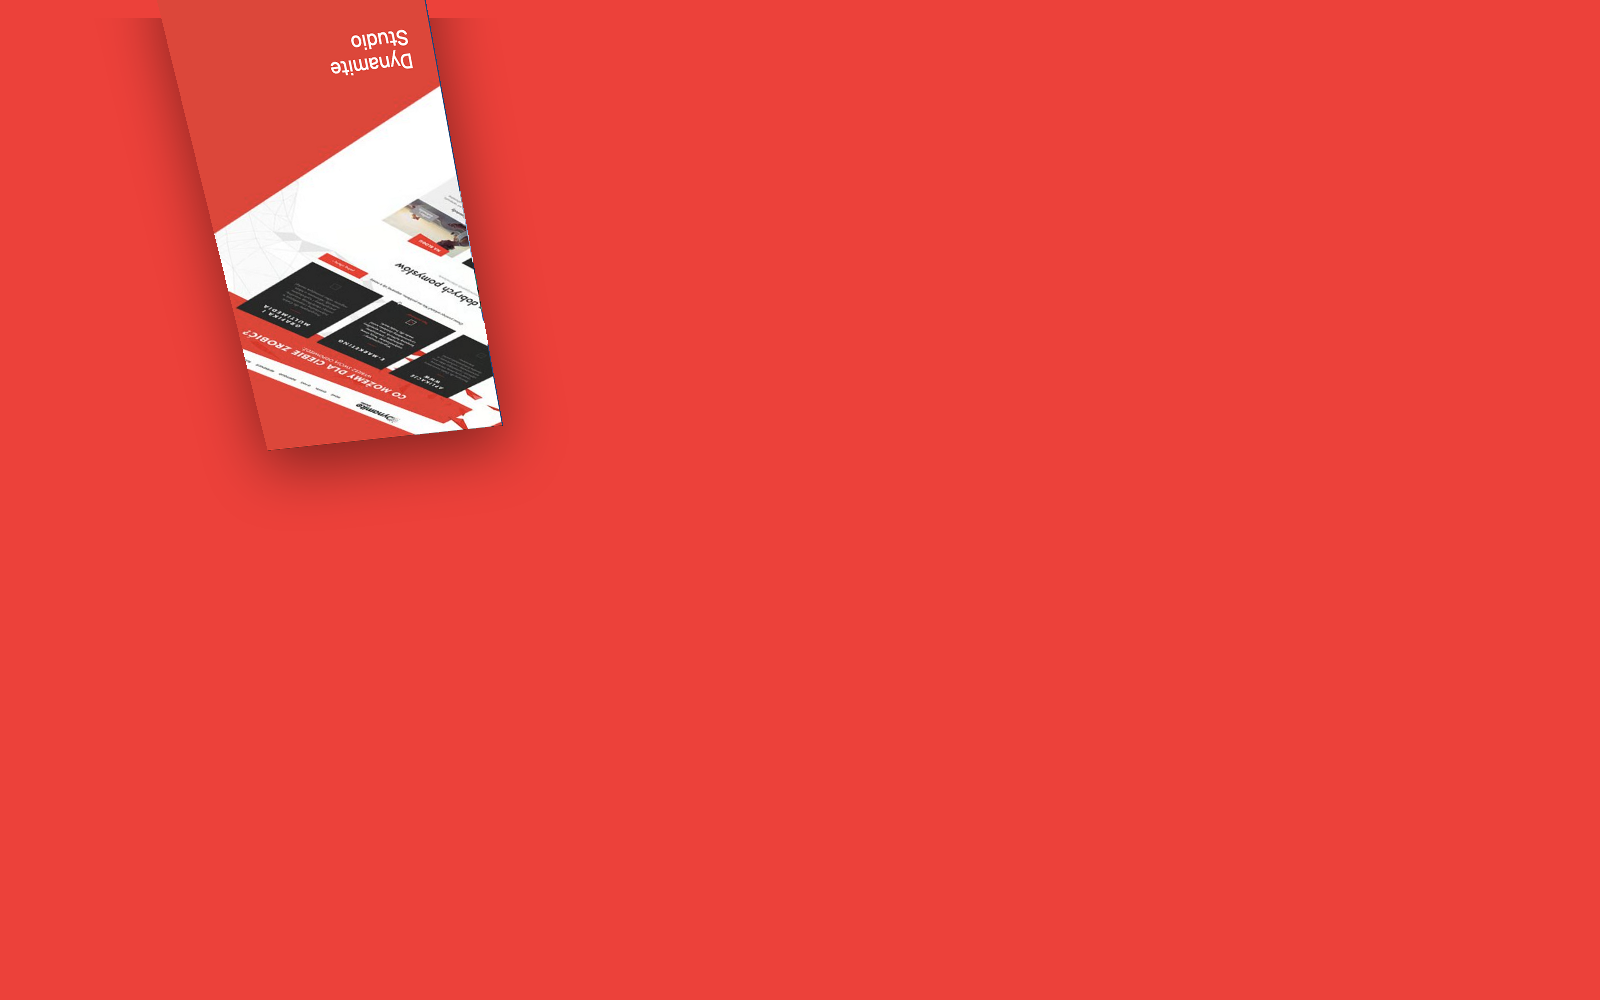
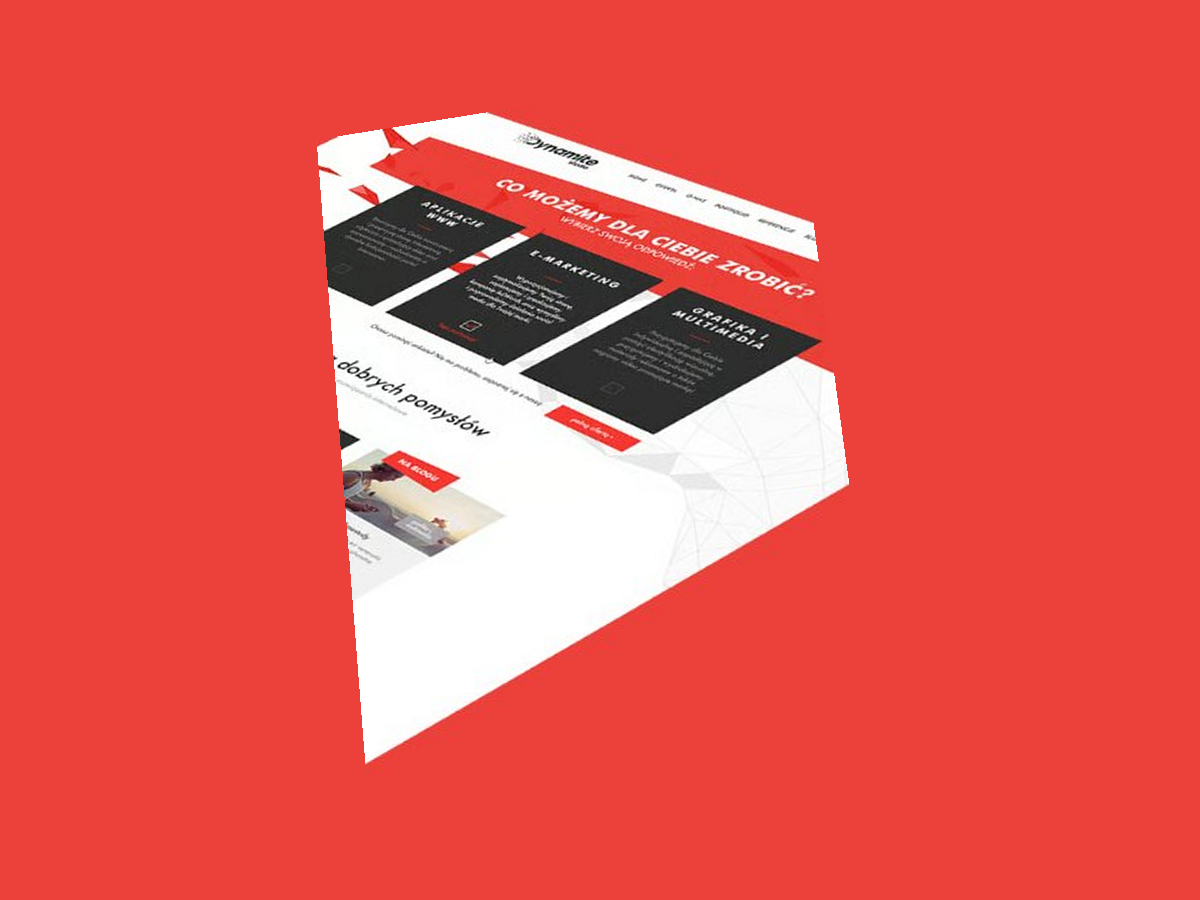
fix(skew_cover): scale mockup like reference card imagery
Correct perspective (no double canvas offset), fit quad to visual band,
tune angles to match portfolio reference; use flat screenshot input.

Changed region(s): [[0.0925, 0.0, 0.7092, 0.84]]

diff --git a/scripts/skew_cover.py b/scripts/skew_cover.py
@@ -1,16 +1,16 @@
 #!/usr/bin/env python3
 """
-Flat screenshot -> portfolio „skew” mockup (PNG on solid color + soft shadow).
+Flat screenshot -> portfolio „skew” mockup (PNG on solid project color).
 
-Projekcja zbliżona do CSS: perspective(...) rotateX(...) rotateZ(...), pinhole
-u = cx + f * x / z, v = cy + f * y / z (płaszczyzna tekstury z = 0, potem obrót
-i przesunięcie). Mapowanie PIL PERSPECTIVE (odwrotna homografia).
+Perspektywa zbliżona do kart referencyjnych (duży mockup, rotateX/Y/Z,
+wyśrodkowany, dół przy dolnej krawędzi pasma wizualnego). Wejście = płaski
+zrzut (bez wcześniejszego skew).
 
-Wymaga: Pillow, NumPy.
+Requires: Pillow, NumPy.
 
-Przykład:
-  python3 scripts/skew_cover.py content/images/Sysdyne-NewOrder.png \\
-    -o content/images/dynamite-skew.png --bg "#ec413a" --shadow
+Example:
+  python3 scripts/skew_cover.py content/images/dynamite.jpg \\
+    -o content/images/dynamite-skew.png --bg "#ec413a"
 """
 
 from __future__ import annotations
@@ -78,7 +78,6 @@ def translate(tx: float, ty: float, tz: float) -> NDArray[np.float64]:
 def homography_from_four_points(
     src: NDArray[np.float64], dst: NDArray[np.float64]
 ) -> NDArray[np.float64]:
-    """DLT: src, dst shape (4,2) -> 3x3 H with dst ~ H @ src_hom."""
     a_rows = []
     for i in range(4):
         x, y = src[i, 0], src[i, 1]
@@ -93,50 +92,7 @@ def homography_from_four_points(
     return h
 
 
-def project_corners(
-    sw: int,
-    sh: int,
-    cx: float,
-    cy: float,
-    focal: float,
-    rot_x_rad: float,
-    rot_y_rad: float,
-    rot_z_rad: float,
-    tz: float,
-) -> tuple[NDArray[np.float64], NDArray[np.float64]]:
-    """Cztery rogi tekstury (TL,TR,BR,BL) w pikselach wyjściowych."""
-    # CSS: perspective * rotateX * rotateZ * rotateY (na wektorze z lewej w CSS;
-    # tutaj składamy macierze tak, by P' = M @ P w kolumnach).
-    rw = rot_x(rot_x_rad) @ rot_z(rot_z_rad) @ rot_y(rot_y_rad)
-    t_model = translate(cx, cy, tz)
-    m = t_model @ rw @ translate(-sw / 2, -sh / 2, 0)
-
-    corners_local = np.array(
-        [
-            [0, 0, 0, 1],
-            [sw - 1, 0, 0, 1],
-            [sw - 1, sh - 1, 0, 1],
-            [0, sh - 1, 0, 1],
-        ],
-        dtype=np.float64,
-    )
-    out = np.zeros((4, 2), dtype=np.float64)
-    for i in range(4):
-        q = m @ corners_local[i]
-        x, y, z = float(q[0]), float(q[1]), float(q[2])
-        if abs(z) < 1e-6:
-            raise RuntimeError("Punkt na płaszczyźnie ogniskowej — zwiększ |translate-z|.")
-        out[i, 0] = cx + focal * x / z
-        out[i, 1] = cy + focal * y / z
-
-    src = np.array(
-        [[0, 0], [sw - 1, 0], [sw - 1, sh - 1], [0, sh - 1]], dtype=np.float64
-    )
-    return src, out
-
-
 def pil_perspective_coeffs(h_fwd: NDArray[np.float64]) -> tuple[float, ...]:
-    """PIL oczekuje współczynników odwrotnej homografii (wyjście -> wejście), h33 = 1."""
     h_inv = np.linalg.inv(h_fwd)
     h_inv = h_inv / h_inv[2, 2]
     return (
@@ -151,36 +107,117 @@ def pil_perspective_coeffs(h_fwd: NDArray[np.float64]) -> tuple[float, ...]:
     )
 
 
+def project_quad(
+    sw: int,
+    sh: int,
+    focal: float,
+    rot_x_rad: float,
+    rot_y_rad: float,
+    rot_z_rad: float,
+    tz: float,
+) -> NDArray[np.float64]:
+    """4 rogi w przestrzeni rzutu (bez przesunięcia do pikseli karty)."""
+    # Kamera w (0,0,0); płaszczyzna z=0, potem obrót, potem odsunięcie w Z.
+    rw = rot_x(rot_x_rad) @ rot_z(rot_z_rad) @ rot_y(rot_y_rad)
+    m = translate(0, 0, tz) @ rw @ translate(-sw / 2, -sh / 2, 0)
+
+    corners_local = np.array(
+        [
+            [0, 0, 0, 1],
+            [sw - 1, 0, 0, 1],
+            [sw - 1, sh - 1, 0, 1],
+            [0, sh - 1, 0, 1],
+        ],
+        dtype=np.float64,
+    )
+    out = np.zeros((4, 2), dtype=np.float64)
+    for i in range(4):
+        q = m @ corners_local[i]
+        x, y, z = float(q[0]), float(q[1]), float(q[2])
+        depth = -z
+        if depth < 1e-3:
+            raise RuntimeError(
+                "Płaszczyzna za blisko kamery — zwiększ --translate-z (bardziej ujemne)."
+            )
+        out[i, 0] = focal * x / depth
+        out[i, 1] = focal * y / depth
+    return out
+
+
+def fit_quad_to_canvas(
+    pts: NDArray[np.float64],
+    out_w: int,
+    out_h: int,
+    margin: float,
+    fill: float,
+    bottom_frac: float,
+) -> NDArray[np.float64]:
+    """Skala + wyrównanie: środek X, dół mockupu przy bottom_frac wysokości."""
+    minx, miny = pts.min(axis=0)
+    maxx, maxy = pts.max(axis=0)
+    w, h = maxx - minx, maxy - miny
+    if w < 1e-6 or h < 1e-6:
+        raise RuntimeError("Zdegenerowany czworokąt po projekcji — zmień kąty lub translate-z.")
+    cx_box = (minx + maxx) / 2
+    cy_box = (miny + maxy) / 2
+    centered = pts - np.array([cx_box, cy_box])
+
+    inner_w = out_w * (1 - 2 * margin)
+    inner_h = out_h * (1 - 2 * margin)
+    scale = min(inner_w * fill / w, inner_h * fill / h)
+    scaled = centered * scale
+
+    minx, miny = scaled.min(axis=0)
+    maxx, maxy = scaled.max(axis=0)
+    dx = out_w / 2 - (minx + maxx) / 2
+    dy = out_h * bottom_frac - maxy
+    return scaled + np.array([dx, dy])
+
+
+def trim_near_white(im: Image.Image, threshold: int = 250) -> Image.Image:
+    """Obetnij jednolite jasne marginesy (typowy zrzut na białym)."""
+    arr = np.asarray(im.convert("RGB"))
+    mask = np.any(arr < threshold, axis=2)
+    if not mask.any():
+        return im
+    ys, xs = np.where(mask)
+    pad = 2
+    left = max(0, int(xs.min()) - pad)
+    top = max(0, int(ys.min()) - pad)
+    right = min(im.width, int(xs.max()) + pad + 1)
+    bottom = min(im.height, int(ys.max()) + pad + 1)
+    return im.crop((left, top, right, bottom))
+
+
 def main() -> None:
     p = argparse.ArgumentParser(description="Zrzut ekranu -> mockup skew (PNG).")
-    p.add_argument("input", type=Path, help="PNG/JPG wejściowy")
+    p.add_argument("input", type=Path, help="PNG/JPG wejściowy (płaski zrzut)")
     p.add_argument("-o", "--output", type=Path, required=True, help="Ścieżka wyjścia PNG")
-    p.add_argument(
-        "--bg",
-        default="#202020",
-        help='Kolor tła (np. "#ec413a" dopasowany do --color projektu)',
-    )
-    p.add_argument("--width", type=int, default=1600, help="Szerokość wyjścia (px)")
-    p.add_argument("--height", type=int, default=1000, help="Wysokość wyjścia (px)")
+    p.add_argument("--bg", default="#202020", help='Kolor tła, np. "#ec413a"')
+    p.add_argument("--width", type=int, default=1200, help="Szerokość wyjścia (px)")
+    p.add_argument("--height", type=int, default=900, help="Wysokość wyjścia (px)")
     p.add_argument(
         "--focal",
         type=float,
         default=None,
-        help='Długość perspektywy jak w CSS perspective() (px); domyślnie 520',
+        help="Perspektywa jak CSS perspective() (px); domyślnie 520",
     )
-    p.add_argument("--rot-x", type=float, default=8.0, help="rotateX (stopnie)")
-    p.add_argument("--rot-y", type=float, default=0.0, help="rotateY (stopnie)")
+    p.add_argument("--rot-x", type=float, default=10.0, help="rotateX (stopnie)")
+    p.add_argument("--rot-y", type=float, default=-9.0, help="rotateY (stopnie)")
     p.add_argument("--rot-z", type=float, default=-6.0, help="rotateZ (stopnie)")
+    p.add_argument("--translate-z", type=float, default=-1700.0, help="Odsunięcie płaszczyzny w Z")
+    p.add_argument("--margin", type=float, default=0.06, help="Margines karty (0–0.45)")
+    p.add_argument("--fill", type=float, default=0.92, help="Jak duży mockup w pasie (0.5–1)")
     p.add_argument(
-        "--translate-z",
+        "--bottom",
         type=float,
-        default=-900.0,
-        help="Położenie Z środka płaszczyzny przed projekcją (ujemne = „przed kamerą”)",
+        default=0.88,
+        help="Pozycja dolnej krawędzi mockupu (frakcja wysokości karty)",
     )
-    p.add_argument("--margin", type=float, default=0.12, help="Margines (0–0.45)")
-    p.add_argument("--shadow", action="store_true", help="Lekki drop shadow")
-    p.add_argument("--shadow-offset", type=float, default=18.0, help="Cień: przesunięcie w dół (px)")
-    p.add_argument("--shadow-blur", type=int, default=28, help="Cień: Gaussian blur (radius PIL)")
+    p.add_argument("--no-trim", action="store_true", help="Nie obcinaj białych marginesów")
+    p.add_argument("--shadow", action="store_true", help="Lekki drop shadow (CSS i tak daje cień)")
+    p.add_argument("--shadow-offset", type=float, default=14.0)
+    p.add_argument("--shadow-blur", type=int, default=22)
     args = p.parse_args()
 
     if not args.input.is_file():
@@ -189,28 +226,32 @@ def main() -> None:
 
     focal = args.focal if args.focal is not None else 520.0
     margin = max(0.0, min(0.45, args.margin))
-    inner_w = args.width * (1 - 2 * margin)
-    inner_h = args.height * (1 - 2 * margin)
-    oy = args.height * margin
+    fill = max(0.5, min(1.0, args.fill))
+    bottom_frac = max(0.55, min(0.95, args.bottom))
 
     im = Image.open(args.input).convert("RGBA")
-    sw0, sh0 = im.size
+    if not args.no_trim:
+        im = trim_near_white(im)
 
-    scale = min(inner_w / sw0, inner_h / sh0)
-    nw = max(1, int(round(sw0 * scale)))
-    nh = max(1, int(round(sh0 * scale)))
+    sw0, sh0 = im.size
+    inner_w = args.width * (1 - 2 * margin)
+    inner_h = args.height * (1 - 2 * margin)
+    # Wejście możliwie duże przed warp — skalę dopasuje fit_quad.
+    scale_in = min(inner_w * fill * 1.05 / sw0, inner_h * fill * 1.05 / sh0)
+    nw = max(1, int(round(sw0 * scale_in)))
+    nh = max(1, int(round(sh0 * scale_in)))
     resized = im.resize((nw, nh), Image.Resampling.LANCZOS)
     sw, sh = resized.size
-
-    cx_img = args.width / 2
-    cy_band = inner_h / 2 + oy + nh * 0.02
 
     rx = math.radians(args.rot_x)
     ry = math.radians(args.rot_y)
     rz = math.radians(args.rot_z)
 
-    src_pts, dst_pts = project_corners(
-        sw, sh, cx_img, cy_band, focal, rx, ry, rz, args.translate_z
+    proj = project_quad(sw, sh, focal, rx, ry, rz, args.translate_z)
+    dst_pts = fit_quad_to_canvas(proj, args.width, args.height, margin, fill, bottom_frac)
+
+    src_pts = np.array(
+        [[0, 0], [sw - 1, 0], [sw - 1, sh - 1], [0, sh - 1]], dtype=np.float64
     )
     h_fwd = homography_from_four_points(src_pts, dst_pts)
     coeffs = pil_perspective_coeffs(h_fwd)
@@ -224,7 +265,6 @@ def main() -> None:
     )
 
     warped = np.asarray(warped_rgba).astype(np.float64) / 255.0
-
     bg = parse_hex_color(args.bg)
     canvas = np.zeros((args.height, args.width, 4), dtype=np.float64)
     canvas[:, :, 0] = bg[0] / 255.0
@@ -234,14 +274,14 @@ def main() -> None:
 
     if args.shadow:
         shadow_rgb = np.concatenate(
-            [np.zeros((args.height, args.width, 3)), warped[:, :, 3:4] * 0.45],
+            [np.zeros((args.height, args.width, 3)), warped[:, :, 3:4] * 0.4],
             axis=2,
         )
         shadow_pil = Image.fromarray(
             np.clip(shadow_rgb * 255, 0, 255).astype(np.uint8), "RGBA"
         )
         shadow_pil = shadow_pil.filter(ImageFilter.GaussianBlur(radius=args.shadow_blur))
-        ox_s, oy_s = int(args.shadow_offset * 0.25), int(args.shadow_offset)
+        ox_s, oy_s = int(args.shadow_offset * 0.2), int(args.shadow_offset)
         shadow_shift = Image.new("RGBA", (args.width, args.height), (0, 0, 0, 0))
         shadow_shift.paste(shadow_pil, (ox_s, oy_s))
         sc = np.asarray(shadow_shift).astype(np.float64) / 255.0
@@ -253,7 +293,7 @@ def main() -> None:
     out_im = Image.fromarray(np.clip(canvas * 255, 0, 255).astype(np.uint8), "RGBA")
     args.output.parent.mkdir(parents=True, exist_ok=True)
     out_im.save(args.output, "PNG")
-    print(f"Zapisano {args.output}")
+    print(f"Zapisano {args.output} ({args.width}x{args.height})")
 
 
 if __name__ == "__main__":

diff --git a/README.md b/README.md
@@ -61,11 +61,14 @@ Plik trafia do `content/images/`. Usunięcie projektu zostawia plik na dysku.
 
 Dla kart na stronie portfolio zapis obrazka z `skew` w nazwie dostaje klasę `card-visual-skew` i **bez** dodatkowego CSS-owego 3D (żeby nie dublować przechyłu). Generator:
 
+Wejście musi być **płaski** zrzut (nie wcześniejszy mockup). Kolor tła = `color` projektu.
+
 ```bash
 python3 scripts/skew_cover.py content/images/Twój-zrzut.png \
   -o content/images/projekt-skew.png \
-  --bg "#ec413a" \
-  --shadow
+  --bg "#ec413a"
 ```
+
+Domyślnie: perspektywa 520px, `rotateX` ~10°, `rotateY` ~−9°, `rotateZ` −6°; mockup skalowany do ~92% pasma i osadzony przy dolnej krawędzi (jak referencja Sysdyne / Concrete-GO).
 
 `--bg` ustaw na `color` projektu z `content/portfolio.json`. Potem ustaw `image` na wygenerowany plik w `content/portfolio.json` **i** w `content/portfolio.js` (`window.PORTFOLIO` musi być zgodny z JSON — przy edycji przez `portfolio.mjs add/update` plik `.js` jest generowany automatycznie).
